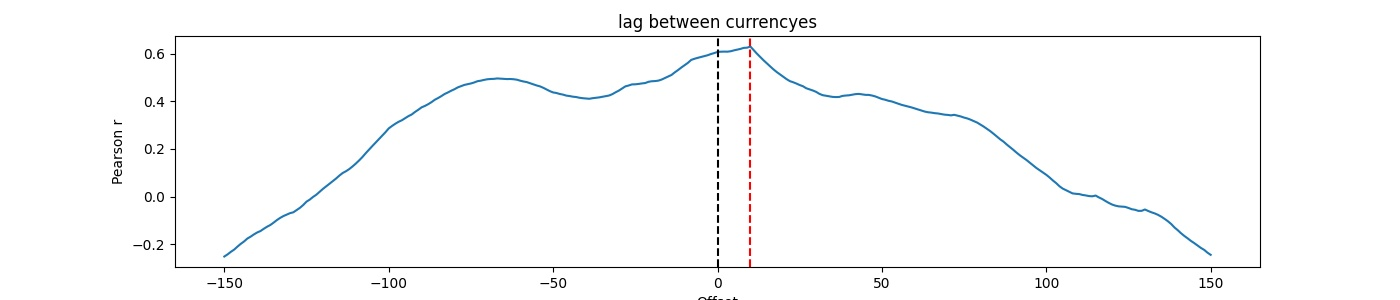
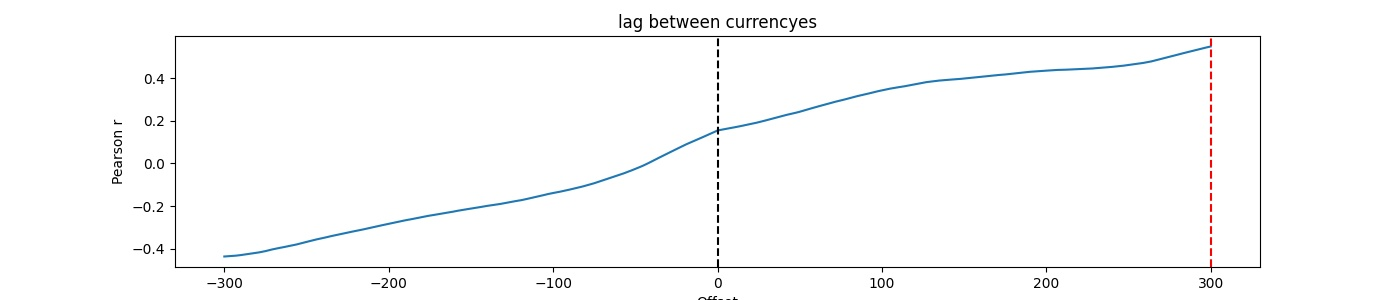
guter Fortschritt

diff --git a/legtest.py b/legtest.py
@@ -1,7 +1,3 @@
-from os import terminal_size
-from matplotlib.text import OffsetFrom
-from numpy.core.arrayprint import printoptions
-from numpy.core.fromnumeric import _searchsorted_dispatcher, sort
 import pandas as pd
 import requests 
 import plotly.graph_objects as go
@@ -9,8 +5,6 @@ import numpy as np
 from sklearn.preprocessing import MinMaxScaler
 import lag_Corr as lg
 import matplotlib.pyplot as plt
-import statsmodels.api as sm
-
 
 def scaleMinMax(a):
     # use min max scaler 
@@ -51,23 +45,21 @@ def avalable_currencyes():
     res = res.json()
     return pd.DataFrame(res)
 
-def plot_chart(coin1,coinName1="" ,coin2=None ,coinName2=""):
+def plot_chart(coin1,coinName1="" ,coin2=None ,coinName2="",mode="lines"):
     if show_plots == False:
         return
 
     #plot two coins 
     fig = go.Figure()
-    fig.add_trace(go.Scatter(x=coin1["ts"], y=coin1["scaled_price"],name=coinName1,mode="markers"))
+    fig.add_trace(go.Scatter(x=coin1["ts"], y=coin1["scaled_price"],name=coinName1,mode=mode))
     try:
         bool(coin2 != None )
     except:
-        fig.add_trace(go.Scatter(x=coin2["ts"], y=coin2["scaled_price"],name=coinName2,mode="markers"))
+        fig.add_trace(go.Scatter(x=coin2["ts"], y=coin2["scaled_price"],name=coinName2,mode=mode))
     fig.show()
 
 def detect_leg_corr(p1,p2,lag):
-
-    #Plot haängt von lag ab und x achse sind indexes in der liste 
-    #DYNAMISCH AUSPROGRAMIIEREN
+    #caluclate sycrony 
     res = {} 
     for l in range(-int(lag),int(lag+1)):
         res[l] = lg.crosscorr(p1,p2, l) 
@@ -75,6 +67,9 @@ def detect_leg_corr(p1,p2,lag):
     sorted_res = dict(sorted(res.items(), key=lambda item: item[1],reverse=True))
     peak_snyc = list(sorted_res.items())[0]
 
+    return peak_snyc,sorted_res,res
+
+def lag_plot(res,peak_snyc):
     if show_plots == True:
         f,ax=plt.subplots(figsize=(14,3))
         ax.plot(res.keys(),res.values())
@@ -84,6 +79,10 @@ def detect_leg_corr(p1,p2,lag):
 
 
     plt.savefig("./myplot.jpg")
+
+def windowed_time_lagged_cross_correlation(p1,p2,lag,no_splits):
+    # (to see if leader and folower change not nesserery)
+    pass
     
 ###############################################################################################
 ####################### ACTUAL CODE ######################
@@ -91,14 +90,15 @@ def detect_leg_corr(p1,p2,lag):
 
 show_plots= True # render or dont render plots
 
-time = 30
-rand_coin_name = "algorand" 
+time = 1000 #how many days showld the history data go back
+lag = 300
+
+#tezos hoch 
+rand_coin_name = "tezos" #name of rand coin to get 
 
 if __name__=="__main__":    #get bitcoin and etherium data 
     main_coin_dict = get_main_coins(time=time)
     btc_df = main_coin_dict["bitcoin"]
-    btc_df["scaled_price"] = btc_df["scaled_price"].shift(10)
-    btc_df.dropna()
     eth_df = main_coin_dict["ethereum"]
 
     #get coin to compare 
@@ -107,6 +107,8 @@ if __name__=="__main__":    #get bitcoin and etherium data
     # plot time series
     plot_chart(btc_df,"bitcoin",rand_coin_df,rand_coin_name)
 
-    #detect logs 
-    detect_leg_corr(btc_df["scaled_price"],rand_coin_df["scaled_price"],150)
+    # #detect logs 
+    # peak_sync,sorted_res,res = detect_leg_corr(btc_df["scaled_price"],rand_coin_df["scaled_price"],lag)
 
+    # #plot lag plot 
+    # lag_plot(res,peak_snyc = peak_sync)

diff --git a/run.py b/run.py
@@ -1,0 +1,15 @@
+from legtest import *
+import pandas as pd
+
+time = 90 # how many days showld the history data go back
+lag = 300
+
+# get main coins to compare and calculate cross corrolation
+main_coin_dict = get_main_coins(time=time)
+
+btc_df = main_coin_dict["bitcoin"]
+eth_df = main_coin_dict["ethereum"]
+
+btc_df.iloc[1]["price"] = None 
+
+print(btc_df.head(5)) 
